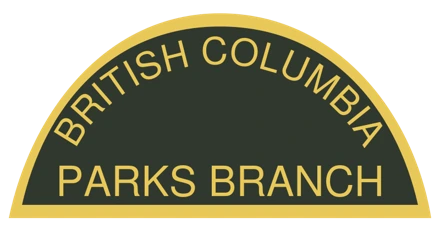
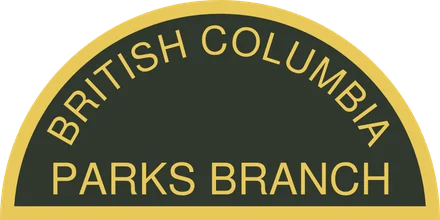
Semicircles: constructed geometry instead of freehand curves
The three Parks Branch semicircles (S29-O01, S29-O02, S29-O04) and the
BC Parks flag semicircle (S30-O02) are rebuilt by
supplied/bc-parks-semicircles/compose.mjs: a true semicircle, its field
the exact inset by the border width, BRITISH COLUMBIA on a concentric
arc spaced by advance widths with even tracking, PARKS BRANCH on a
straight centred baseline, both an even clearance inside the field. The
flag badge is fitted to the largest box that clears the field's edge.
Letter outlines, sizes and colours stay the atlas's.

The flag-badge package now builds only the rounded square.

Claude-Session: https://claude.ai/code/session_01T5AbVH6CZUB97WoR7FV4AA

diff --git a/library/supplied/bc-parks-semicircles/README.md b/library/supplied/bc-parks-semicircles/README.md
@@ -1,0 +1,32 @@
+# BC Parks semicircles, constructed
+
+The four BC Parks semicircle patches, rebuilt as exact geometry by `compose.mjs` instead of the
+atlas's freehand curves:
+
+| Patch | Upper | Lower |
+|---|---|---|
+| S29-O01 Parks Branch, beige | BRITISH COLUMBIA on an arc | PARKS BRANCH |
+| S29-O02 Parks Branch, yellow | BRITISH COLUMBIA on an arc | PARKS BRANCH |
+| S29-O04 Parks Branch, dark | BRITISH COLUMBIA on an arc | PARKS BRANCH |
+| S30-O02 BC Parks flag | PofBC's flag badge (`../bc-parks-flag-badge/source/`) | |
+
+- **Edge:** a true semicircle, radius 48 in the atlas's master units (its patches are 96 wide).
+- **Field:** the edge inset by the border width (3, or 3.5 on the flag patch) everywhere: an arc
+  of radius 48 − border on the same centre, over a base raised by the border, meeting at the exact
+  corners.
+- **Upper wording:** on an arc concentric with both, its capitals 2.6 inside the field's arc. The
+  letters are spaced by their own advance widths with even tracking, symmetric about the top, over
+  the atlas's span (about ±60°).
+- **Lower wording:** a straight baseline 2.6 above the field's base, centred, as wide as the atlas
+  set it.
+- **Flag badge:** scaled to the largest box of its proportions whose corners stay 2.6 inside the
+  field, centred.
+
+The letter outlines, their sizes and the colours are the atlas reconstruction's (each Parks Branch
+edition has its own face), so only the construction changes. Previews are the composed SVGs
+rendered in Chromium, cropped and scaled to 440 px.
+
+```bash
+node library/supplied/bc-parks-semicircles/compose.mjs
+npm run library:import
+```

diff --git a/library/README.md b/library/README.md
@@ -106,7 +106,8 @@ preview, quality line and limitations:
 | S25-O01 Parks Branch elk roundel | `supplied/bc-parks-branch-elk-roundel/`: a supplied vector package, used whole |
 | S31-O01 Recreation and Conservation / Parks | `supplied/bc-parks-recreation-conservation/`: a supplied vector package, used whole |
 | S30-O04, S27-O04 scenic arch, Parks and Parks · Ranger | `supplied/bc-parks-scenic-arch/`: the atlas arch and lettering with a supplied landscape in the window (`compose.mjs`) |
-| S30-O01, S30-O02 BC Parks flag, rounded square and semicircle | `supplied/bc-parks-flag-badge/`: PofBC's flag badge, whole for the square and inside the atlas's semicircle (`compose.mjs`) |
+| S30-O01 BC Parks flag, rounded square | `supplied/bc-parks-flag-badge/`: PofBC's flag badge, whole (`compose.mjs`) |
+| S29-O01, S29-O02, S29-O04 Parks Branch semicircles; S30-O02 BC Parks flag semicircle | `supplied/bc-parks-semicircles/`: constructed geometry (a true semicircle, its field the exact inset, concentric arc lettering), with the atlas's letters or PofBC's flag badge (`compose.mjs`) |
 | S56-O21 B.C. Hydro Security shield | `supplied/bc-hydro-security/`: the atlas shield with PofBC's BC Hydro symbol in place of its plain H (`compose.mjs`) |
 
 A composed drawing is rebuilt by running its `compose.mjs`, then re-importing. Each replaced patch

diff --git a/library/supplied/bc-parks-flag-badge/README.md b/library/supplied/bc-parks-flag-badge/README.md
@@ -13,8 +13,8 @@ badge's hand-drawn frame and BC, flag and Parks shapes, where the atlas had appr
   on cloth `#ebeaf4`):
   - `composed/S30-O01.svg`: the rounded square. It's PofBC's badge whole, with the cloth filling
     the frame's outer edge, so it's cut at the frame.
-  - `composed/S30-O02.svg`: the semicircle. The atlas's semicircle cut and border, with its
-    wording and flag replaced by PofBC's, fitted to the same place.
+  - The semicircle (S30-O02) is built from the same badge by `../bc-parks-semicircles/compose.mjs`,
+    which constructs the semicircle itself as exact geometry.
 
 The badge's dating, sources and rights are as PofBC records them: seen on BC Parks brochures by
 2002 (Alice Lake Provincial Park, 03/2002), rights unresolved. "BC" and "Parks" are set in the
